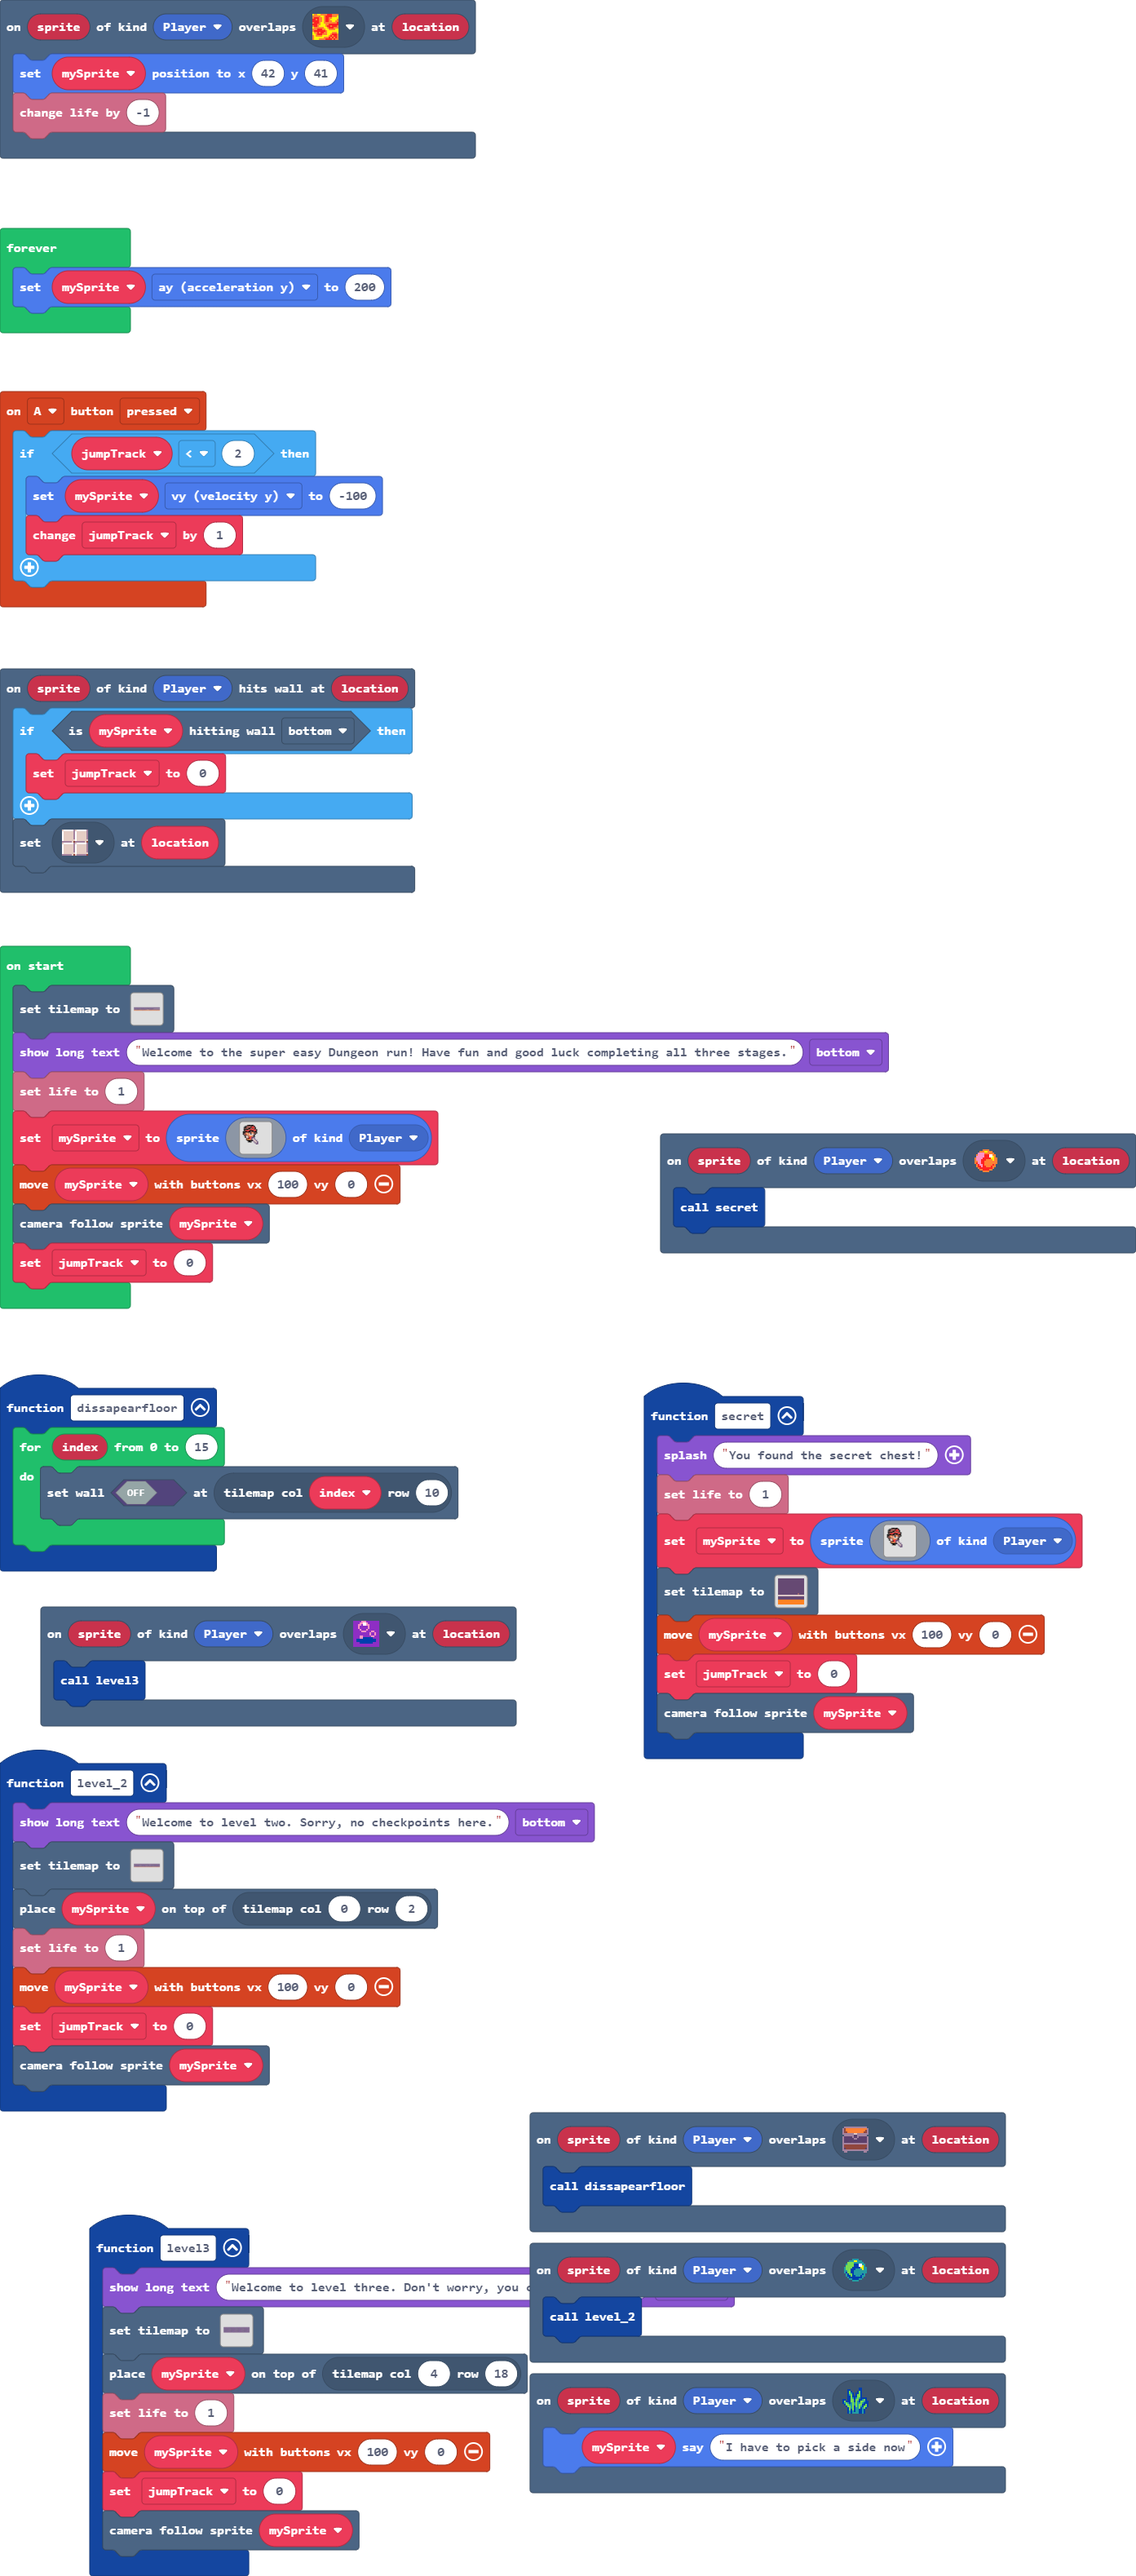
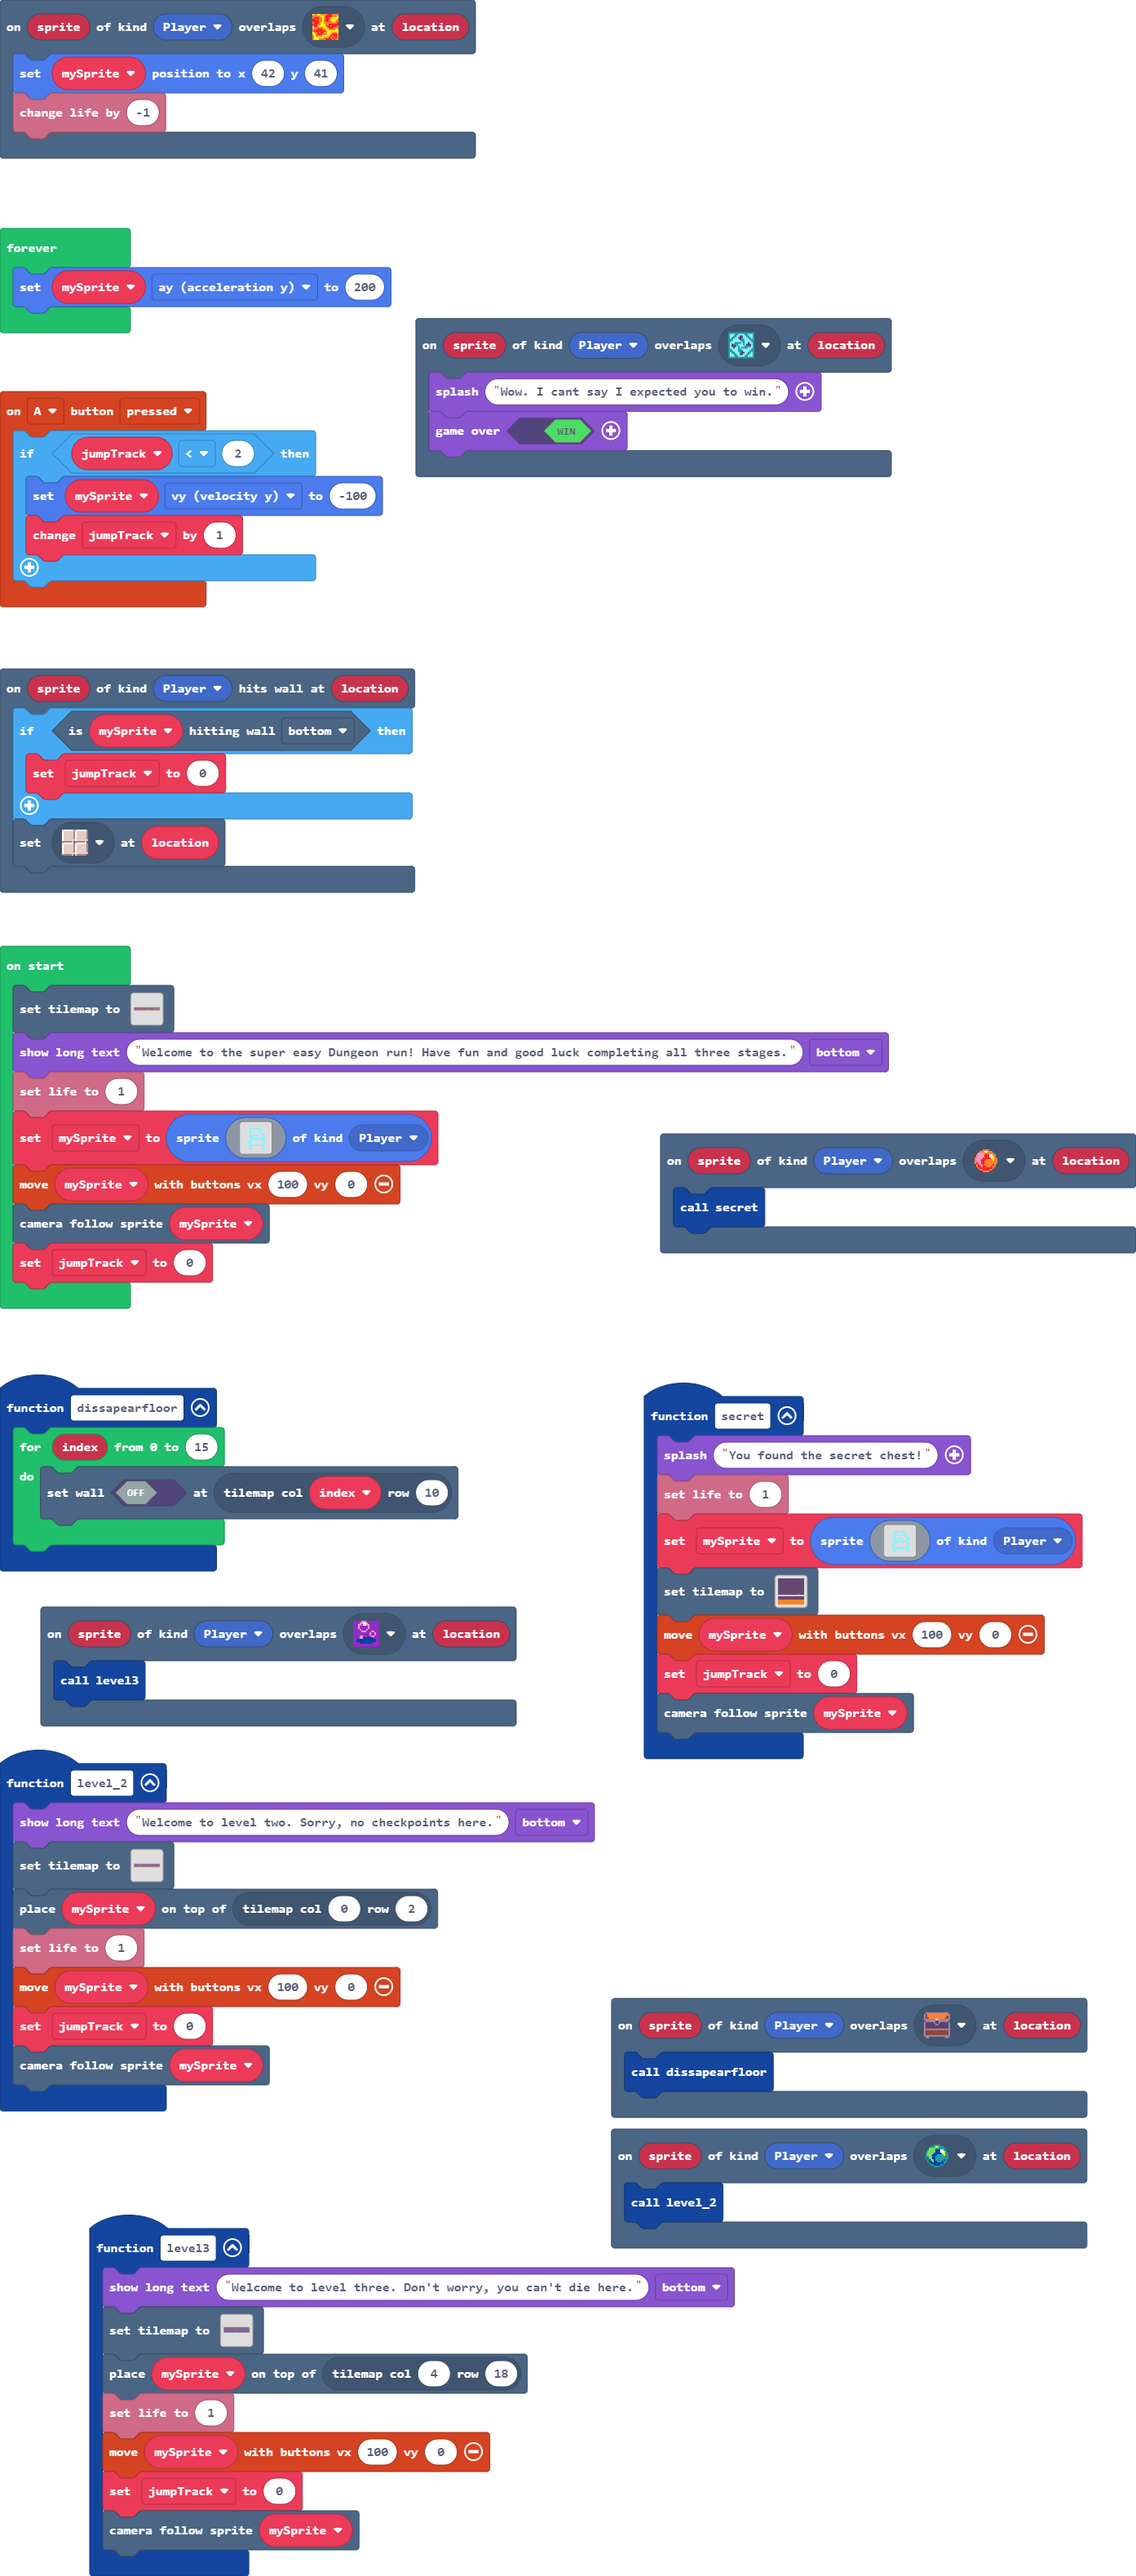
Update main.blocks, main.ts, tilemap.g.jres, tilemap.g.ts

diff --git a/main.ts b/main.ts
@@ -10,9 +10,6 @@ controller.A.onEvent(ControllerButtonEvent.Pressed, function () {
         jumpTrack += 1
     }
 })
-scene.onOverlapTile(SpriteKind.Player, sprites.swamp.swampTile3, function (sprite, location) {
-    mySprite.say("I have to pick a side now")
-})
 function level3 () {
     game.showLongText("Welcome to level three. Don't worry, you can't die here.", DialogLayout.Bottom)
     tiles.setTilemap(tilemap`level5`)
@@ -32,30 +29,22 @@ function secret () {
     game.splash("You found the secret chest!")
     info.setLife(1)
     mySprite = sprites.create(img`
-        ....ffffff..............
-        ..ffeeeef2f.............
-        .ffeeeef222f............
-        .feeeffeeeef............
-        .ffffee2222ef...........
-        .fe222ffffe2f...........
-        fffffffeeefff...........
-        ffe44ebf44eef...........
-        fee4d41fddef............
-        .feee4ddddf.............
-        ..fdde444ef.............
-        ..fdde22ccc.............
-        ...eef22cdc.............
-        ...f4444cddc............
-        ....fffffcddc...........
-        .....fff..cddc..........
-        ...........cdc..........
-        ............cc..........
-        ........................
-        ........................
-        ........................
-        ........................
-        ........................
-        ........................
+        . . . . . . . . . . . . . . . . 
+        . . . . . . . . . . . . . . . . 
+        . . . . 9 9 9 9 9 9 9 . . . . . 
+        . . . . 9 . . . . . 9 9 . . . . 
+        . . . . 9 . 9 . . 9 . 9 . . . . 
+        . . . . 9 . . . . . . 9 9 . . . 
+        . . . . 9 . 9 9 9 9 . . 9 9 . . 
+        . . . . 9 9 . . . . . . 9 9 . . 
+        . . . . . 9 9 9 9 9 9 9 9 . . . 
+        . . . . 9 9 . . . . . . 9 9 . . 
+        . . . 9 9 . . . . . . . . 9 . . 
+        . . . 9 9 . . . . . . . 9 9 . . 
+        . . . . 9 9 9 9 9 9 9 9 9 . . . 
+        . . . . 9 . . . . . . . 9 . . . 
+        . . . . 9 9 . . . . . . 9 9 . . 
+        . . . . . . . . . . . . . . . . 
         `, SpriteKind.Player)
     tiles.setTilemap(tilemap`level2`)
     controller.moveSprite(mySprite, 100, 0)
@@ -86,36 +75,32 @@ scene.onOverlapTile(SpriteKind.Player, sprites.dungeon.collectibleRedCrystal, fu
 scene.onOverlapTile(SpriteKind.Player, sprites.dungeon.chestOpen, function (sprite, location) {
     dissapearfloor()
 })
+scene.onOverlapTile(SpriteKind.Player, sprites.dungeon.collectibleInsignia, function (sprite, location) {
+    game.splash("Wow. I cant say I expected you to win.")
+    game.over(true)
+})
 let jumpTrack = 0
 let mySprite: Sprite = null
 tiles.setTilemap(tilemap`level1`)
 game.showLongText("Welcome to the super easy Dungeon run! Have fun and good luck completing all three stages.", DialogLayout.Bottom)
 info.setLife(1)
 mySprite = sprites.create(img`
-    ....ffffff..............
-    ..ffeeeef2f.............
-    .ffeeeef222f............
-    .feeeffeeeef............
-    .ffffee2222ef...........
-    .fe222ffffe2f...........
-    fffffffeeefff...........
-    ffe44ebf44eef...........
-    fee4d41fddef............
-    .feee4ddddf.............
-    ..fdde444ef.............
-    ..fdde22ccc.............
-    ...eef22cdc.............
-    ...f4444cddc............
-    ....fffffcddc...........
-    .....fff..cddc..........
-    ...........cdc..........
-    ............cc..........
-    ........................
-    ........................
-    ........................
-    ........................
-    ........................
-    ........................
+    . . . . . . . . . . . . . . . . 
+    . . . . . . . . . . . . . . . . 
+    . . . . 9 9 9 9 9 9 9 . . . . . 
+    . . . . 9 . . . . . 9 9 . . . . 
+    . . . . 9 . 9 . . 9 . 9 . . . . 
+    . . . . 9 . . . . . . 9 9 . . . 
+    . . . . 9 . 9 9 9 9 . . 9 9 . . 
+    . . . . 9 9 . . . . . . 9 9 . . 
+    . . . . . 9 9 9 9 9 9 9 9 . . . 
+    . . . . 9 9 . . . . . . 9 9 . . 
+    . . . 9 9 . . . . . . . . 9 . . 
+    . . . 9 9 . . . . . . . 9 9 . . 
+    . . . . 9 9 9 9 9 9 9 9 9 . . . 
+    . . . . 9 . . . . . . . 9 . . . 
+    . . . . 9 9 . . . . . . 9 9 . . 
+    . . . . . . . . . . . . . . . . 
     `, SpriteKind.Player)
 controller.moveSprite(mySprite, 100, 0)
 scene.cameraFollowSprite(mySprite)

diff --git a/tilemap.g.ts b/tilemap.g.ts
@@ -98,6 +98,25 @@ namespace myTiles {
 ....................................................................................................
 ....................................................................................................
 `, [myTiles.transparency16,sprites.dungeon.floorLight0,sprites.dungeon.darkGroundNorthWest0,sprites.dungeon.darkGroundSouthEast1,sprites.swamp.swampTile3,sprites.swamp.swampTile13,sprites.dungeon.hazardLava1], TileScale.Sixteen);
+            case "level6":
+            case "level6":return tiles.createTilemap(hex`1000100000000000000000000000000000000000000000000000000000000000000000000000000000000000000000000000000000000000000000000000000000000000000000000000000000000000000000000000000000000000000000000000000000000000000000000000000000000000000000000000000000000000000000000000000000000000000000000000000000000000000000000000000000000000000000000000000000000000000000000000000000000000000000000000000000000000000000000000000000000000000000000000000000000000000000000000000000000000000000000000000000000000000000000000000000000000`, img`
+. . . . . . . . . . . . . . . . 
+. . . . . . . . . . . . . . . . 
+. . . . . . . . . . . . . . . . 
+. . . . . . . . . . . . . . . . 
+. . . . . . . . . . . . . . . . 
+. . . . . . . . . . . . . . . . 
+. . . . . . . . . . . . . . . . 
+. . . . . . . . . . . . . . . . 
+. . . . . . . . . . . . . . . . 
+. . . . . . . . . . . . . . . . 
+. . . . . . . . . . . . . . . . 
+. . . . . . . . . . . . . . . . 
+. . . . . . . . . . . . . . . . 
+. . . . . . . . . . . . . . . . 
+. . . . . . . . . . . . . . . . 
+. . . . . . . . . . . . . . . . 
+`, [myTiles.transparency16], TileScale.Sixteen);
         }
         return null;
     })
